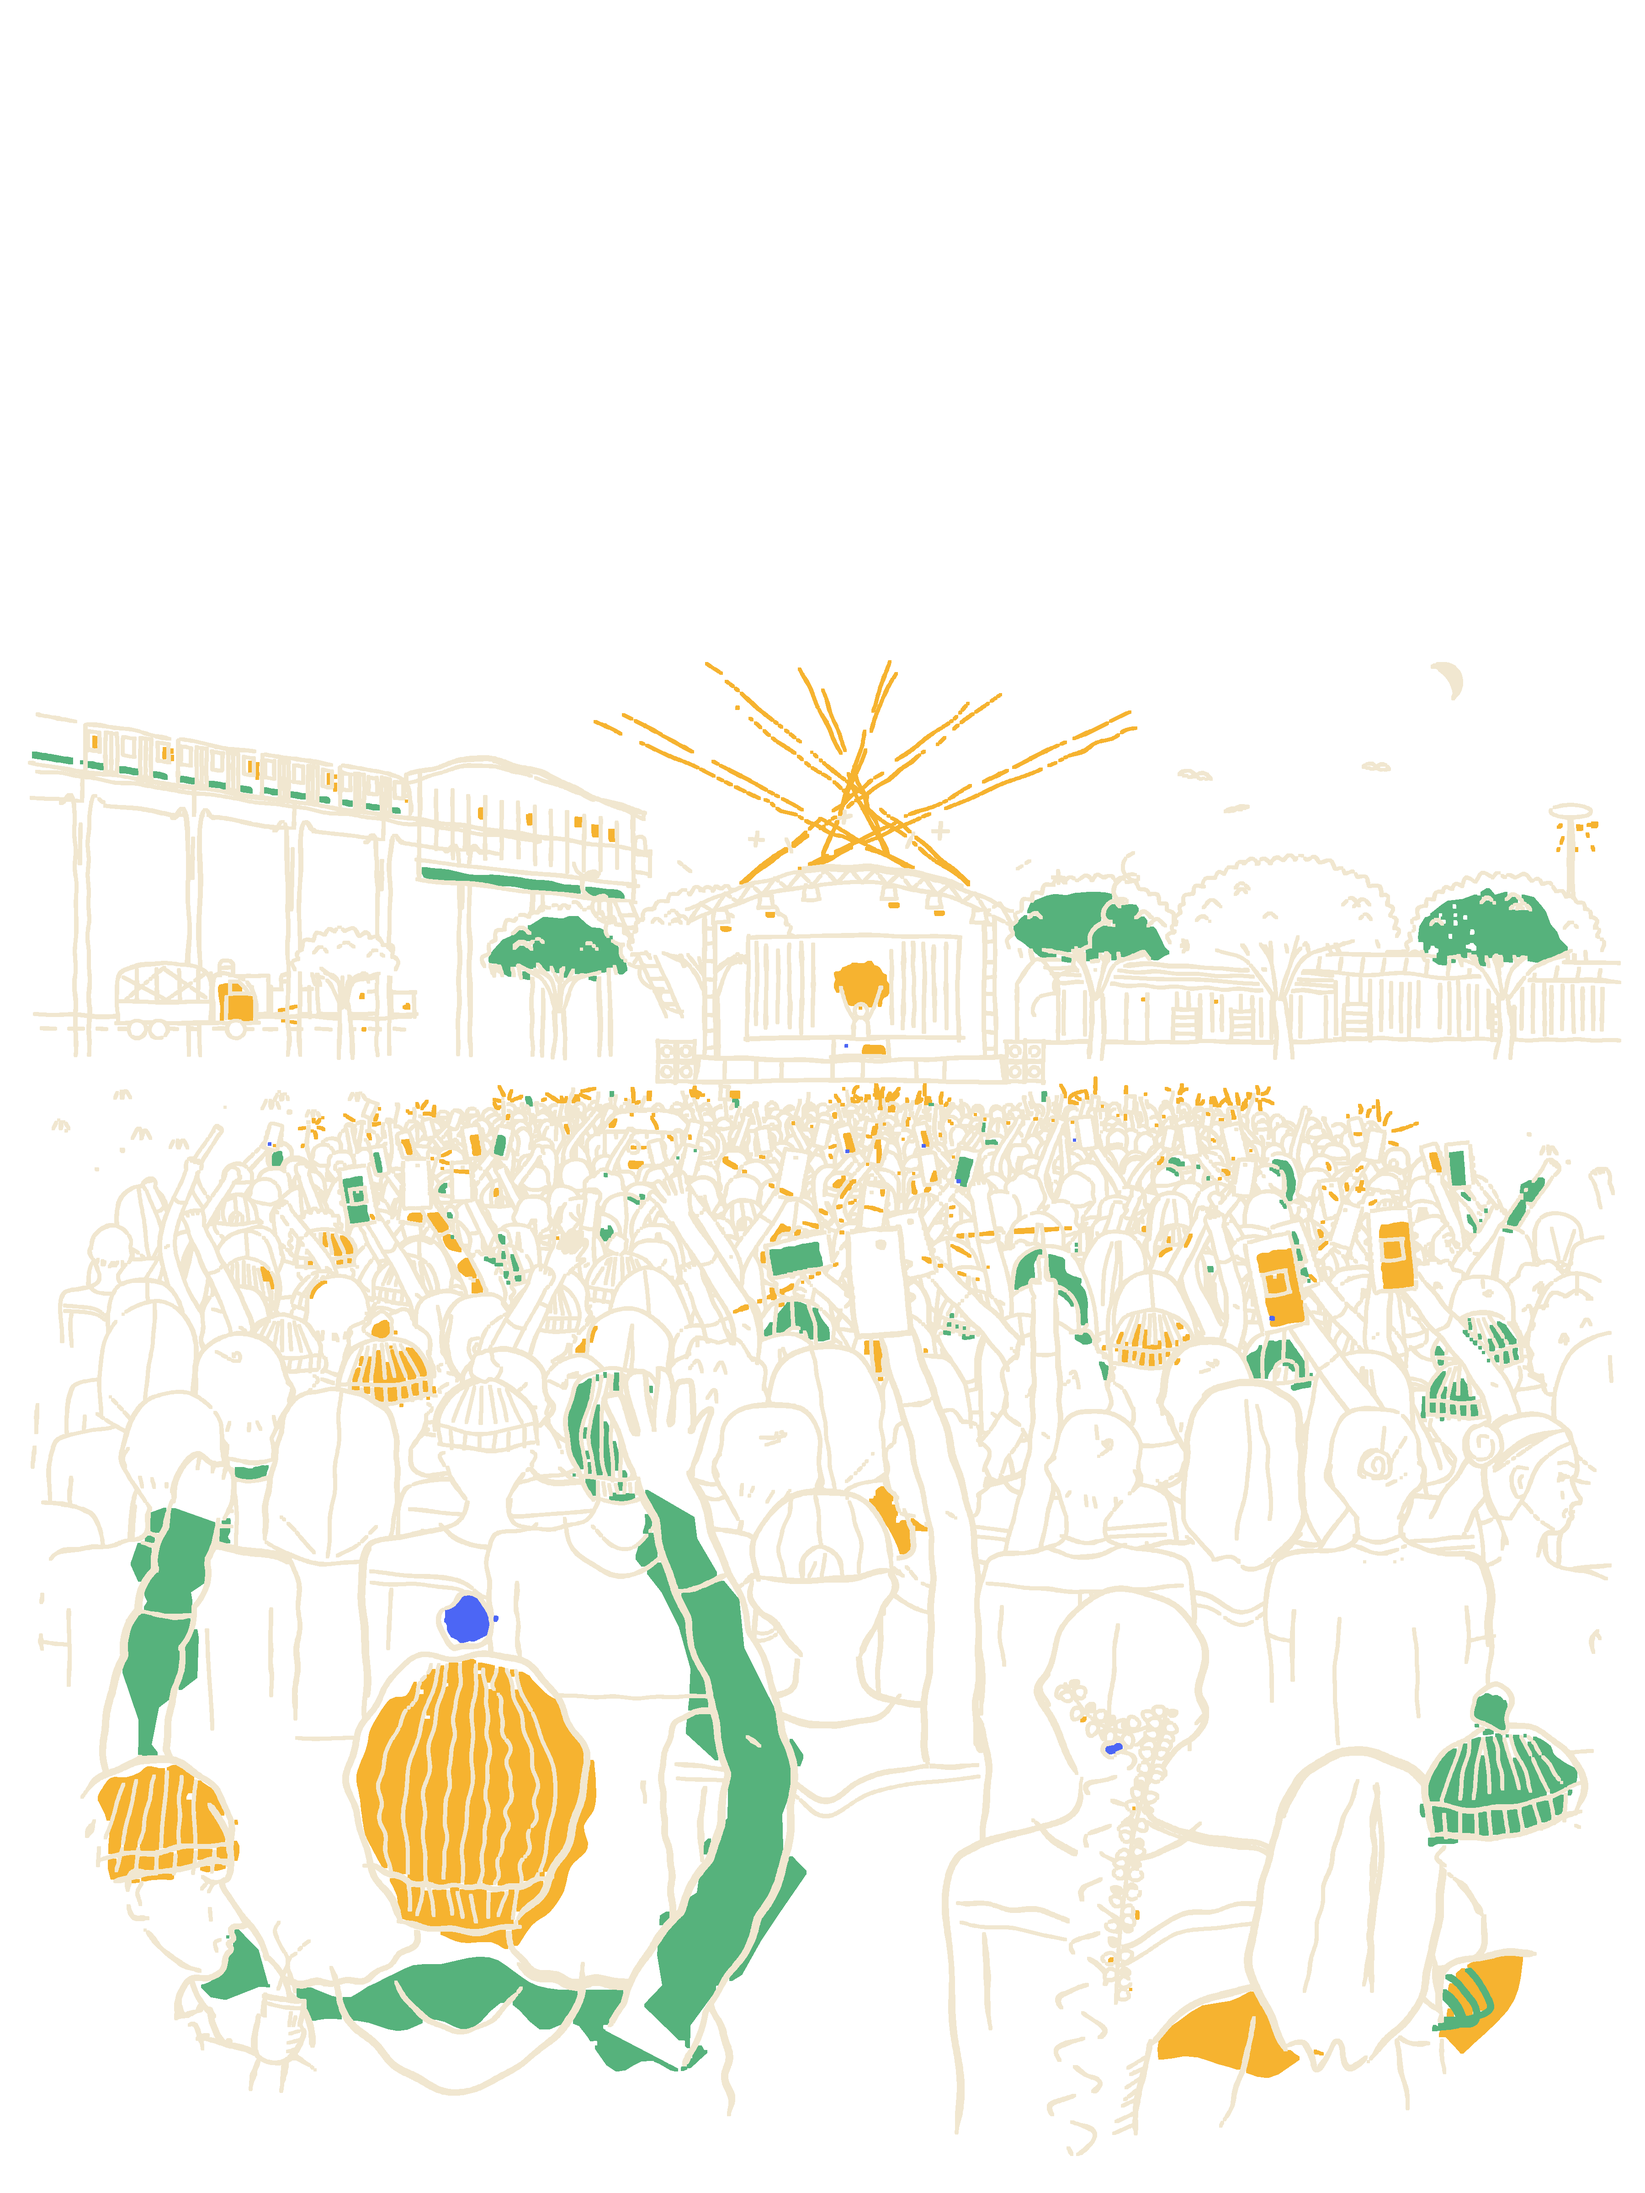
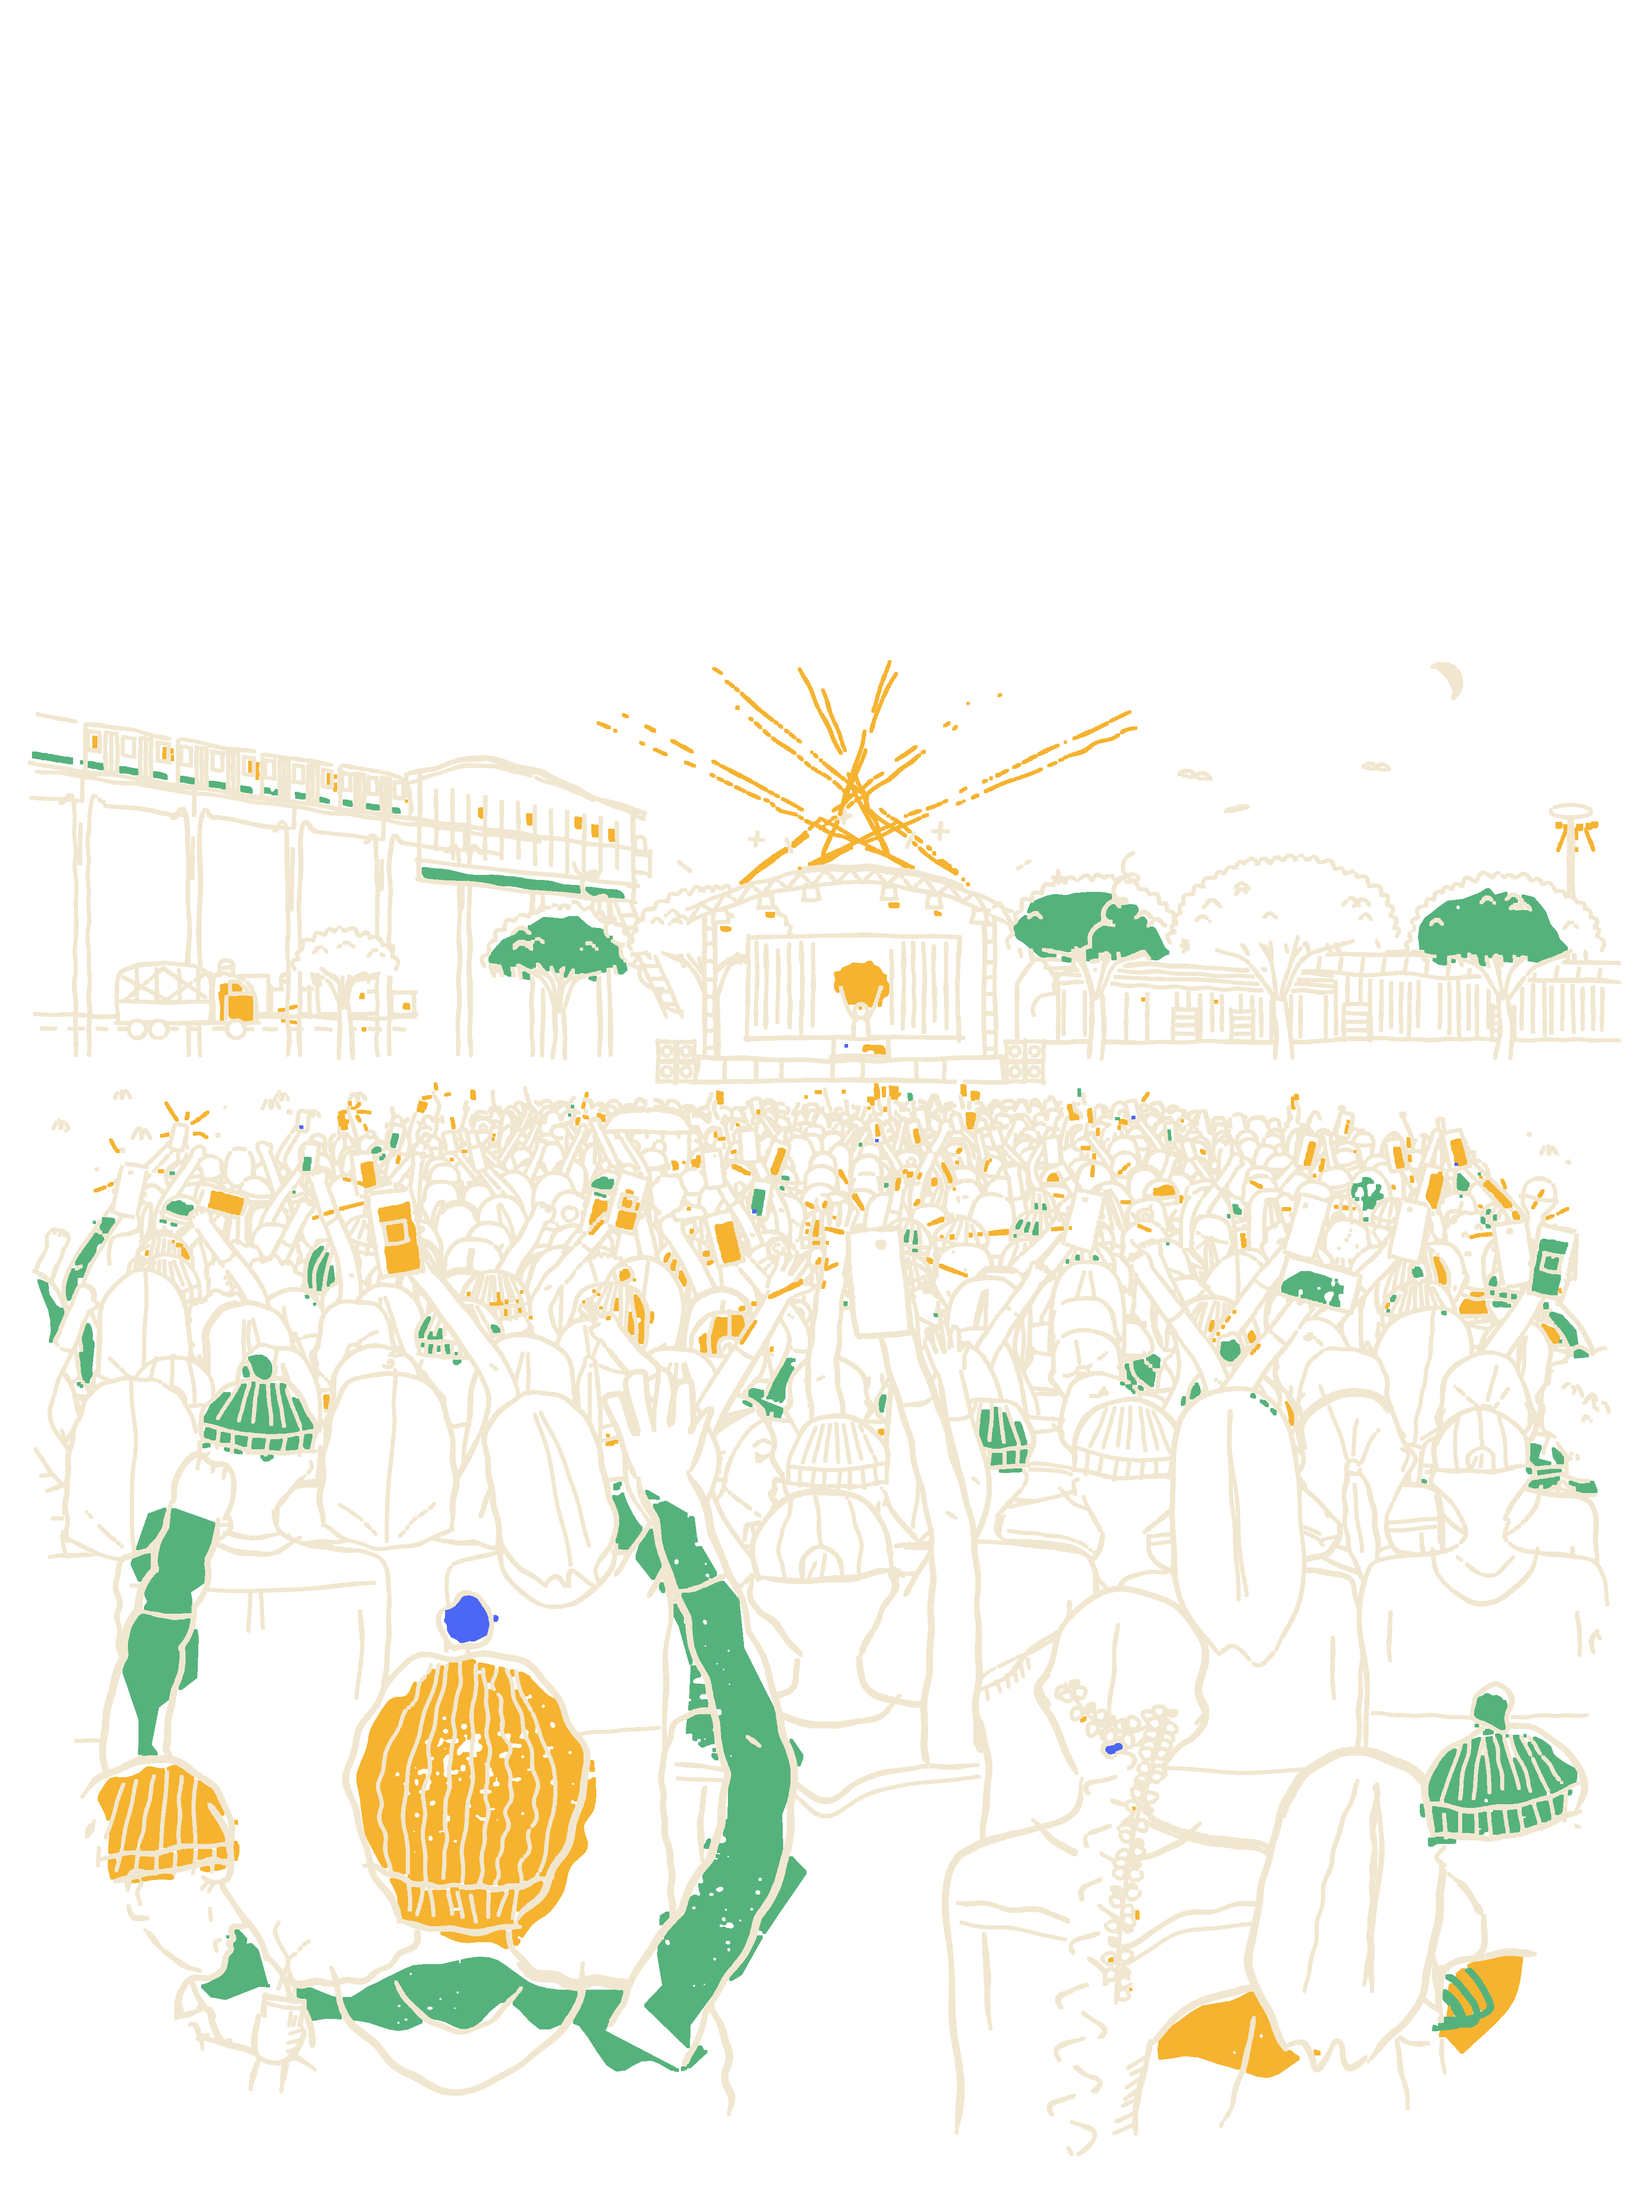
03 crowd: back of the crowd drawn as running lines of heads, fewer torch sparks, round off-lattice screen grain

Changed region(s): [[0.0, 0.5, 0.9956, 0.8125], [0.3733, 0.7188, 0.4356, 0.7812], [0.2489, 0.7812, 0.3111, 0.8125]]

diff --git a/pipeline/art/art-c-crowd/gen.py b/pipeline/art/art-c-crowd/gen.py
@@ -1163,6 +1163,94 @@ class Scene(Art):
                     else:
                         self.ink(d, MINW, closed=True, rng=rng, a0=0.3, a1=0.4, pv=0.05, close_frac=rng.uniform(0.95, 1.03))
 
+    def ridge(self, y0, xa, xb, w0, rng, depth=1.4, arms=0.1):
+        """the far crowd the way it gets drawn by hand: one running line of head
+        bumps and shoulder dips, the pen lifted every few heads; now and then an
+        arm sticks up out of it with a phone or a torch on the end"""
+        ph1, ph2 = rng.uniform(0, TAU), rng.uniform(0, TAU)
+
+        def base(x):
+            return y0 + w0 * (0.22 * math.sin(x * 0.021 + ph1) + 0.12 * math.sin(x * 0.067 + ph2))
+        x = xa + rng.uniform(0, w0)
+        runs, cur, extras = [], [], []
+        while x < xb:
+            # thin out toward the ends and leave the odd pocket of ground
+            edge = abs((x - xa) / (xb - xa) * 2 - 1)
+            if rng.random() < 0.03 + max(0.0, edge - 0.75) * 1.6:
+                if len(cur) > 3:
+                    runs.append(cur)
+                cur = []
+                x += w0 * rng.uniform(0.8, 2.2)
+                continue
+            bw = w0 * rng.uniform(0.72, 1.3)
+            bh = w0 * rng.uniform(0.42, 0.9)
+            b = base(x + bw / 2) + rng.gauss(0, 0.07 * w0)
+            kind = rng.random()
+            if kind < 0.12:      # hood: a soft point
+                cur += [(x, b), (x + bw * 0.12, b - bh * 0.7), (x + bw * 0.5 + rng.gauss(0, 0.05 * bw), b - bh * 1.18), (x + bw * 0.88, b - bh * 0.7)]
+            elif kind < 0.2:     # bun on top
+                cur += [(x, b), (x + bw * 0.12, b - bh * 0.72), (x + bw * 0.34, b - bh), (x + bw * 0.42, b - bh * 1.32), (x + bw * 0.62, b - bh * 1.3),
+                        (x + bw * 0.68, b - bh), (x + bw * 0.88, b - bh * 0.72)]
+            elif kind < 0.26:    # cap with a brim
+                cur += [(x, b), (x + bw * 0.1, b - bh * 0.75), (x + bw * 0.45, b - bh * 1.02), (x + bw * 0.8, b - bh * 0.82), (x + bw * 1.15, b - bh * 0.7),
+                        (x + bw * 0.9, b - bh * 0.55)]
+            else:
+                cur += [(x, b), (x + bw * 0.1, b - bh * 0.72), (x + bw * 0.5 + rng.gauss(0, 0.06 * bw), b - bh), (x + bw * 0.9, b - bh * 0.72)]
+            top = (x + bw * 0.5, b - bh)
+            if rng.random() < 0.06:
+                extras.append(('cap', (x, b, bw, bh)))
+            if rng.random() < arms:
+                extras.append(('arm', (x + bw * rng.uniform(0.2, 0.8), b - bh * 0.5, bh)))
+            x += bw
+            # shoulder dip between heads (sometimes two heads touch)
+            if rng.random() < 0.7:
+                d = w0 * rng.uniform(0.12, 0.55)
+                cur.append((x + d * 0.5, base(x + d * 0.5) + w0 * rng.uniform(0.0, 0.12)))
+                x += d
+            if len(cur) > rng.randint(14, 30):
+                runs.append(cur)
+                cur = [(cur[-1][0] + rng.uniform(-2, 1.5), cur[-1][1] + rng.gauss(0, 0.6))]
+        if len(cur) > 3:
+            runs.append(cur)
+        lw = MINW
+        for run in runs:
+            p = self.hand(run, wob=0.035 * w0, trem=0.05 * w0, rng=rng, step=1.0)
+            self.knock(p + [(p[-1][0], y0 + depth * w0), (p[0][0], y0 + depth * w0)])
+            for k, data in extras:
+                if k == 'cap' and run[0][0] <= data[0] <= run[-1][0]:
+                    xx, b, bw, bh = data
+                    self.blob([(xx + bw * 0.12, b - bh * 0.62), (xx + bw * 0.5, b - bh * 0.98), (xx + bw * 0.88, b - bh * 0.62), (xx + bw * 0.8, b - bh * 0.35),
+                               (xx + bw * 0.2, b - bh * 0.35)], rng.choice(('Y', 'G', 'G')), rng=rng, shift=0.12 * w0, gap=0.0, n=14)
+            self.ink(p, lw, rng=rng, a0=0.8, a1=1.6, pv=0.3, redraw=0.15)
+        for k, data in extras:
+            if k != 'arm':
+                continue
+            ax, ay, bh = data
+            L = w0 * rng.uniform(1.0, 1.9)
+            a = -math.pi / 2 + rng.gauss(0, 0.28)
+            hx, hy = ax + math.cos(a) * L, ay + math.sin(a) * L
+            mid = ((ax + hx) / 2 + rng.gauss(0, 0.12 * w0), (ay + hy) / 2)
+            self.knock(offset_path([(ax, ay), mid, (hx, hy)], 0.16 * w0 + 1.5) + offset_path([(ax, ay), mid, (hx, hy)], -0.16 * w0 - 1.5)[::-1])
+            self.line([(ax, ay), mid, (hx, hy)], lw, rng=rng, wob=0.03 * w0, trem=0, a0=0.4, a1=0.6)
+            q = rng.random()
+            if q < 0.3:
+                # torch: a bright point, three or four short unequal ticks
+                self.dot(hx, hy - 1.5, max(1.6, 0.16 * w0), rng=rng)
+                ph = rng.uniform(0, TAU)
+                for i in range(rng.randint(3, 4)):
+                    aa = ph + TAU * i / 4 + rng.gauss(0, 0.3)
+                    r0, r1 = 3.5 + 0.2 * w0, 3.5 + w0 * rng.uniform(0.5, 1.0)
+                    self.line([(hx + math.cos(aa) * r0, hy - 1.5 + math.sin(aa) * r0), (hx + math.cos(aa) * r1, hy - 1.5 + math.sin(aa) * r1)], MINW,
+                              rng=rng, layer='Y', wob=0.1, trem=0, a0=0.3, a1=0.6)
+            elif q < 0.72:
+                ph_ = w0 * rng.uniform(0.6, 0.85)
+                pw = ph_ * rng.uniform(0.5, 0.62)
+                rect = [(hx - pw / 2, hy - ph_), (hx + pw / 2, hy - ph_ - rng.gauss(0, 0.4)), (hx + pw / 2, hy + 1), (hx - pw / 2, hy + 1)]
+                self.knock(rect)
+                self.blob(rect, 'B' if rng.random() < 0.06 else rng.choice(('Y', 'Y', 'G')), rng=rng, scale=(1.0, 1.15), shift=0.1 * w0, gap=0.0, n=10)
+            else:
+                self.dot(hx, hy, max(1.7, 0.2 * w0), rng=rng)
+
     def person_far(self, cx, cy, w, lw, rng):
         """a distant head: a bump, shoulders, maybe an arm with a phone"""
         h = w * 1.12
@@ -1189,10 +1277,10 @@ class Scene(Art):
             self.knock(offset_path(p, 0.18 * w) + offset_path(p, -0.18 * w)[::-1])
             self.ink(p, lw, rng=rng, a0=0.5, a1=0.8)
             q = rng.random()
-            if q < 0.42:
-                self.rays(hx, hy - 0.2 * w, 0.18 * w + 1.0, 1.15 * w + 3.0, rng.randint(6, 8), rng, skip_down=False)
+            if q < 0.22:
+                self.rays(hx, hy - 0.2 * w, 0.18 * w + 1.0, 0.95 * w + 3.0, rng.randint(4, 6), rng, skip_down=False)
                 self.dot(hx, hy - 0.2 * w, max(0.16 * w, 1.6), rng=rng)
-            elif q < 0.75:
+            elif q < 0.72:
                 ph = w * rng.uniform(0.7, 0.95)
                 pw = ph * 0.55
                 ang = rng.gauss(0, 0.2)
@@ -1202,7 +1290,7 @@ class Scene(Art):
                 self.knock(rect)
                 lay = 'B' if rng.random() < 0.04 else 'G' if rng.random() < 0.3 else 'Y'
                 self.blob(rect, lay, rng=rng, scale=(1.0, 1.12), shift=0.04 * w, gap=0.0, n=12)
-                if w > 11:
+                if w > 15:
                     self.box(rect, lw * 0.8, rng=rng, over=(-0.5, 1.0), wob=0.1)
             else:
                 self.dot(hx, hy - 0.15 * w, max(0.22 * w, 1.6), rng=rng)
@@ -2072,6 +2160,12 @@ class Scene(Art):
             t = (zi - 1.78) / (17 - 1.78)
             hw = 680 - 400 * t ** 0.6
             cxr = STX - 10 * (1 - t)
+            if zi > 11.2:
+                # the back of the crowd: drawn as running lines of heads
+                self.ridge(y0, cxr - hw * r.uniform(0.9, 1.0), cxr + hw * r.uniform(0.9, 1.0), w0 * r.uniform(0.95, 1.08), r,
+                           arms=0.07 + 0.05 * (17 - zi) / 6)
+                cnt += int(2 * hw / w0)
+                continue
             x = cxr - hw + r.uniform(0, w0)
             ppl = []
             while x < cxr + hw:
@@ -2090,9 +2184,9 @@ class Scene(Art):
                 else:
                     o = {}
                     q = r.random()
-                    if q < 0.09:
+                    if q < 0.06:
                         o['arms'] = {r.choice((-1, 1)): 'torch'}
-                    elif q < 0.16:
+                    elif q < 0.15:
                         o['arms'] = {r.choice((-1, 1)): 'phone'}
                     elif q < 0.25:
                         o['arms'] = {r.choice((-1, 1)): r.choice(['open', 'fist', 'peace', 'point', 'open'])}
@@ -2287,13 +2381,19 @@ def noise(cell_u, seed, sigma=64):
     return Image.effect_noise((nw, nh), sigma).convert('L').resize((W, H), Image.BICUBIC)
 
 
-def grain(m, seed, cut=58, cell=2.6, starve_cell=90, starve=0.45):
+def grain(m, seed, cut=80, cell=2.6, starve_cell=90, starve=0.45):
     """screen grain: open holes in the solids, more where the screen ran a little dry"""
-    fine = noise(cell, seed, 60)
+    # two fine screens at unrelated cell sizes, one shifted half a cell, so the
+    # holes don't line up on the noise lattice
+    f1 = noise(cell, seed, 60)
+    f2 = noise(cell * 0.71, seed + 7, 60)
+    f2 = ImageChops.offset(f2, int(cell * S * 0.37), int(cell * S * 0.61))
+    fine = Image.blend(f1, f2, 0.5).point(lambda p: max(0, min(255, int((p - 128) * 1.35 + 128))))
     low = noise(starve_cell, seed + 1, 70)
     mix = Image.blend(fine, low, starve)
     holes = mix.point(lambda p: 255 if p < cut else 0)
     holes = clean(holes, 7)                  # no pin-holes the screen can't hold
+    holes = holes.filter(ImageFilter.GaussianBlur(3.2)).point(lambda p: 255 if p > 118 else 0)   # round, not square
     return ImageChops.subtract(m, holes)
 
 
